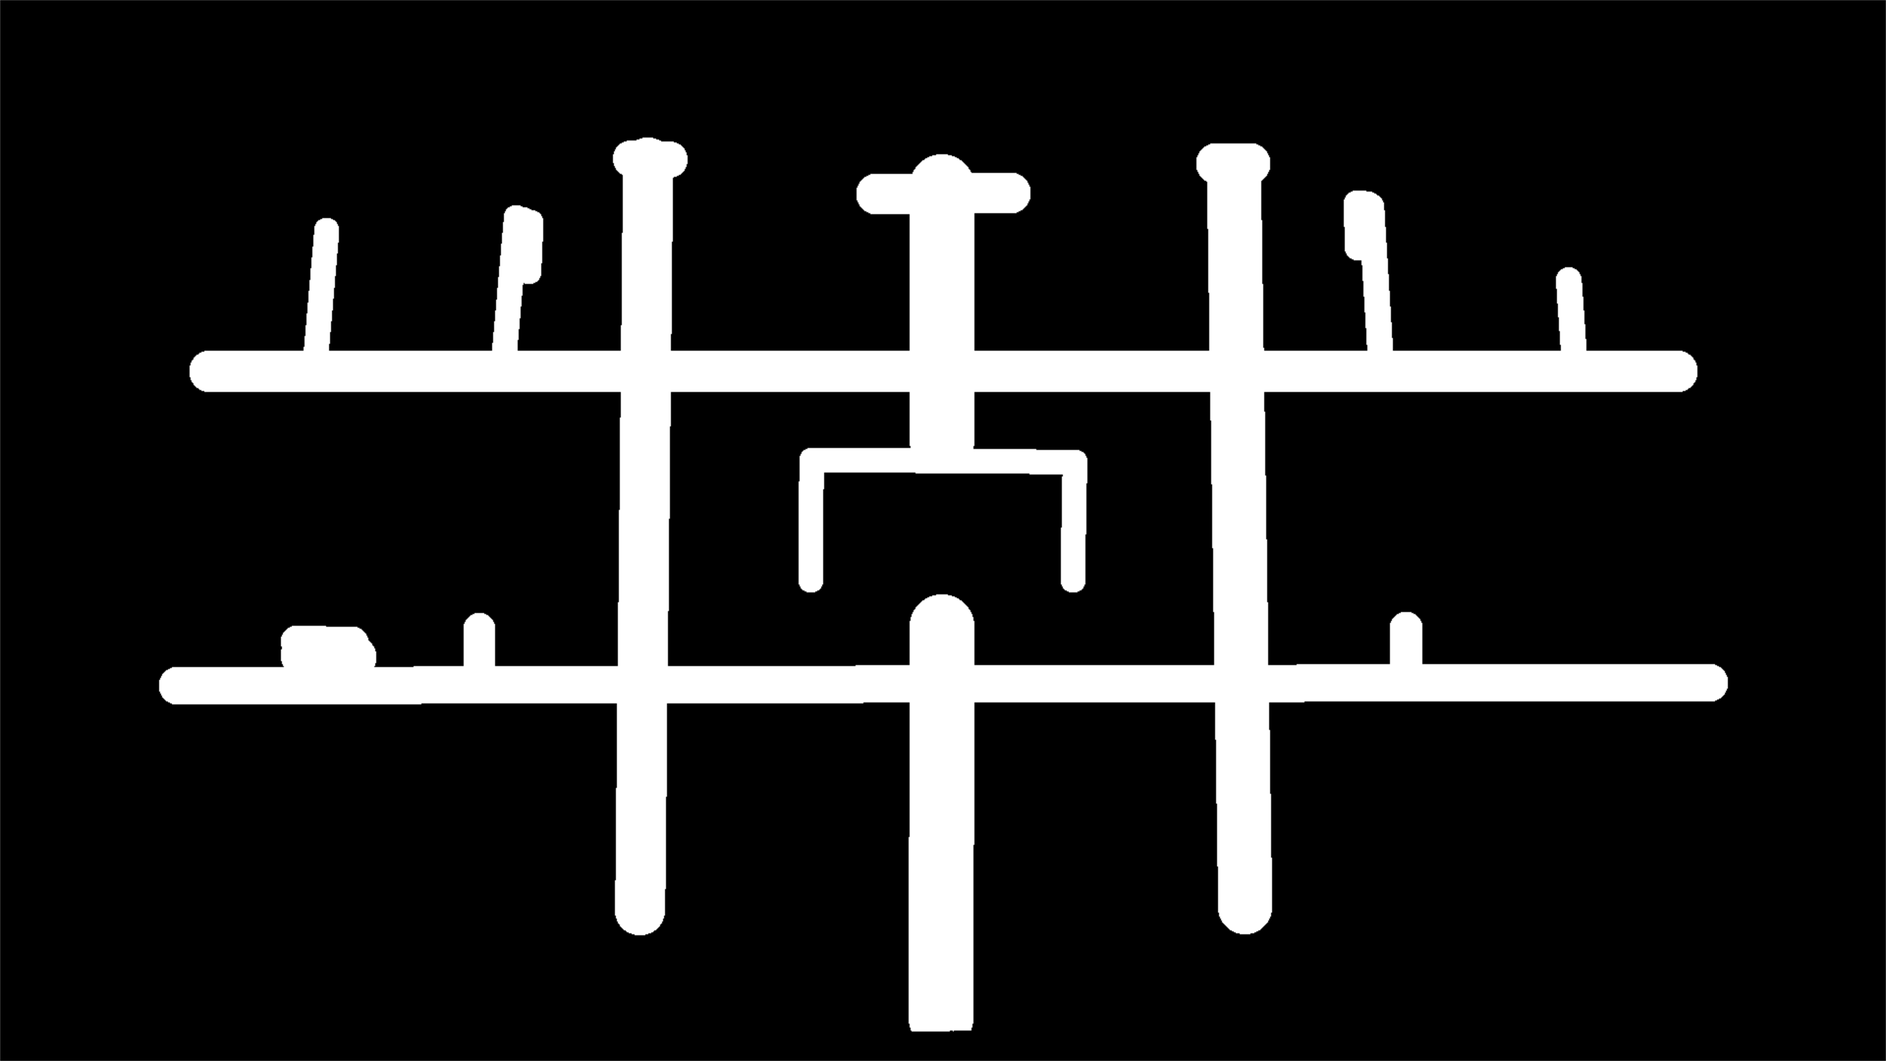
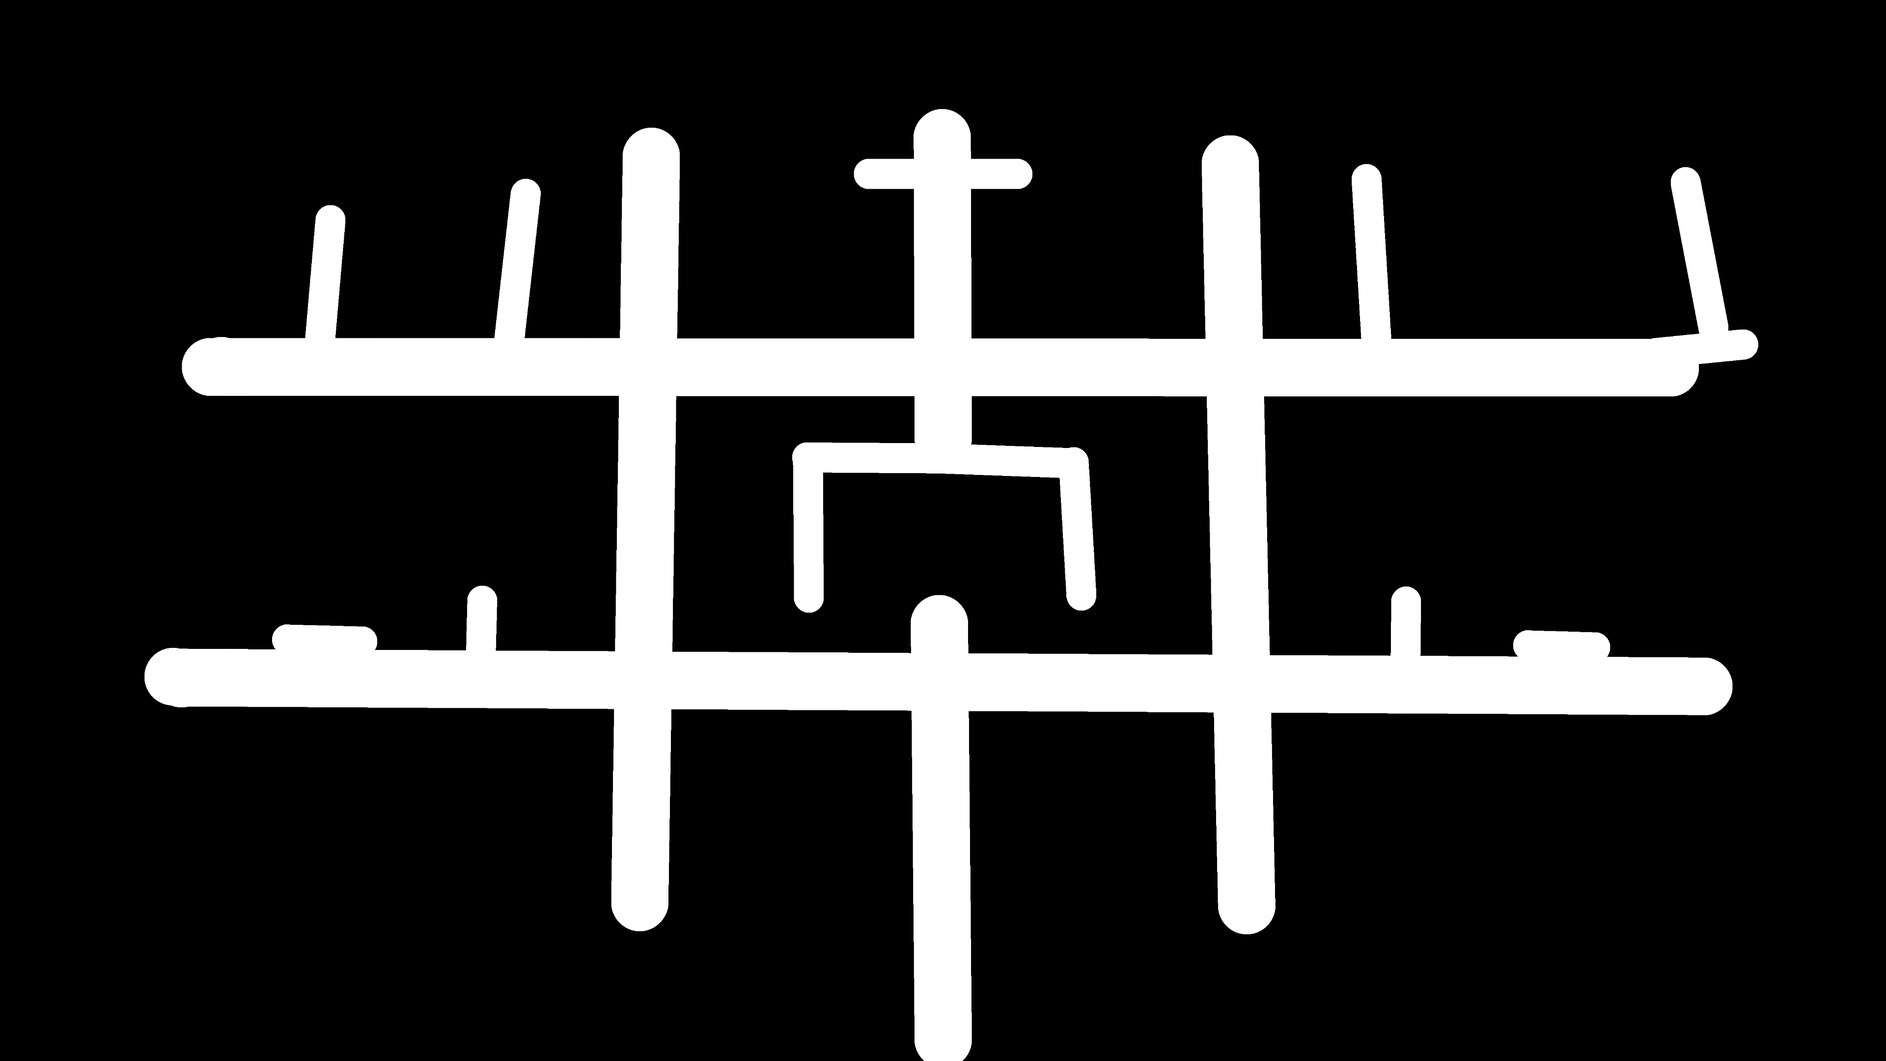
Replace MP01 and MP02 map assets and update inventory

diff --git a/asset/map/README.md b/asset/map/README.md
@@ -1,62 +1,61 @@
-# 맵 에셋
+# 이동 맵 에셋
 
-이 폴더의 이미지 22개를 아래에 모두 표시합니다. 미리보기와 파일 링크는 같은 폴더의 실제 파일을 가리킵니다. 크기는 이미지 자체의 픽셀 기준입니다. `MP01`은 온실, `MP02`는 대서고, `MP03`은 별빛 천문대의 **이동용 전체맵·가림 전경·충돌 마스크**입니다. 스토리 대화의 화면 배경은 [background/README.md](../background/README.md)에서 찾습니다. 맵 파일 보유와 엔진 연결 완료는 구분합니다. MP02·MP03의 새 마스터 PNG는 이전보다 파일 용량이 크고 구도도 달라졌지만, 현재 엔진이 읽는 월드·썸네일 WebP는 기존 파일을 유지합니다.
+이 폴더는 모험 화면에서 SD 캐릭터가 이동하는 **전체맵·가림 전경·충돌 마스크**를 보관합니다. 대화 장면 배경은 [background/README.md](../background/README.md)를 보세요. 현재 브랜치의 추적 이미지 16개는 MP01 4개, MP02 4개, MP03 7개, 참고 맵 1개입니다. 아래 링크는 `asset/map/`의 실제 파일을 가리킵니다.
+
+**런타임 주의:** MP01·MP02는 기존 WebP와 1920×1080 마스크를 제거하고 새 PNG 세트로 교체했습니다. 그러나 [엔진의 모험 맵 경로](../../engine/src/core/adventure-mission.mjs)는 아직 삭제된 파일명을 읽습니다. 따라서 **이 브랜치의 MP01·MP02 모험 화면은 엔진 경로를 바꾸기 전까지 정상 로드되지 않습니다.** 새 이미지가 파일로 등록된 것과 게임 화면에 연결된 것은 별개입니다. `asset/`만 `main`에 옮겨도 이 문제가 해결되지 않습니다.
 
 ## 빠른 탐색
 
-| 사용처·장면 | 파일명 기준 | 현재 상태 | 파일 목록·미리보기 |
-|---|---|---|---|
-| 이동·충돌용 맵; 장소별 이동 지형; BACKGROUND와 구분 | `MP* 및 기존 참고 맵` | 이 폴더 이미지 22장. 개별 파일의 채택·후보·검수 상태는 아래 설명을 따름 | 아래 파일 표와 미리보기, [에셋 전체 장면표](../README.md) 참조 |
+| 장소 | 새 전체맵(게임 좌표 기준) | 새 가림 전경 | 새 충돌 마스크 | 고해상도 원본 | 실행 상태 |
+|---|---|---|---|---|---|
+| MP01 유리 온실·약초원 | [3840×2160 맵](./MP01_greenhouse_master_3840x2160.png) | [`-1` 전경](./MP01_greenhouse_foreground_3840x2160-1.png) | [3840×2160 마스크](./MP01_greenhouse_collision_mask_3840x2160.png) | [5504×3072 원본](./MP01_greenhouse_master_5504x3072.png) | 파일 등록, 엔진 경로 미변경 |
+| MP02 대서고 | [3840×2160 맵](./MP02_grand_library_3840x2160.png) | [3840×2160 전경](./MP02_grand_library_foreground_3840x2160.png) | [3840×2160 마스크](./MP02_grand_library_collision_mask_3840x2160.png) | [5504×3072 원본](./MP02_grand_library_5504x3072.png) | 파일 등록, 엔진 경로 미변경 |
+| MP03 별빛 천문대 | [3840×2160 실행용 WebP](./MP03_starlight_observatory_world_3840x2160.webp) | [3840×2160 실행용 WebP](./MP03_starlight_observatory_foreground_3840x2160.webp) | [1920×1080 실행용 마스크](./MP03_starlight_observatory_collision_mask_1920x1080.png) | [3840×2162 검토용 마스터](./MP03_starlight_observatory_master_3840x2162.png) | 기존 실행 경로 유지 |
 
-보충 문서 [ADDITIONS_2026-10-16.md](./ADDITIONS_2026-10-16.md)는 MP02·MP03 원본 추가 당시의 크기와 연결 전 상태를 기록합니다. 현재 자원 목록은 이 README, 실제 엔진 연결 상태는 [엔진 안내](../../engine/README.md)를 따릅니다.
+전경은 전체 오브젝트를 따로 그린 그림이 아니라 **캐릭터보다 앞에 표시할 가림 영역만 있는 투명 레이어**입니다. 충돌 마스크는 완전 불투명한 순백색(`#FFFFFF`)만 이동 가능하며 나머지는 이동 불가입니다. 전체맵·전경·마스크는 같은 맵의 동일한 좌표계로 함께 사용하세요. 5504×3072 원본과 3840×2160 게임 맵은 구도·픽셀이 완전히 같다고 가정하지 말고, 3840×2160 전경·마스크는 표에 적힌 3840×2160 맵과 대조하세요.
 
-## MP01 · 온실
+## MP01 · 유리 온실·약초원 (4개)
 
-| 파일 | 용도 | 크기 | 미리보기 |
+| 파일 | 역할 | 실제 크기 | 상태 |
 |---|---|---:|---|
-| [MP01_greenhouse_master_3840x2160.png](./MP01_greenhouse_master_3840x2160.png) | 전체맵 원본 | 3840×2160 | <img src="./MP01_greenhouse_master_3840x2160.png" width="260" alt="온실 전체맵 원본"> |
-| [MP01_greenhouse_world_3840x2160.webp](./MP01_greenhouse_world_3840x2160.webp) | 전체맵 WebP | 3840×2160 | <img src="./MP01_greenhouse_world_3840x2160.webp" width="260" alt="온실 전체맵 WebP"> |
-| [MP01_greenhouse_world_1920x1080.webp](./MP01_greenhouse_world_1920x1080.webp) | 축소 전체맵 WebP | 1920×1080 | <img src="./MP01_greenhouse_world_1920x1080.webp" width="260" alt="온실 축소 전체맵"> |
-| [MP01_greenhouse_foreground_3840x2160.png](./MP01_greenhouse_foreground_3840x2160.png) | 투명 전경 PNG | 3840×2160 | <img src="./MP01_greenhouse_foreground_3840x2160.png" width="260" alt="온실 전경 PNG"> |
-| [MP01_greenhouse_foreground_3840x2160.webp](./MP01_greenhouse_foreground_3840x2160.webp) | 투명 전경 WebP | 3840×2160 | <img src="./MP01_greenhouse_foreground_3840x2160.webp" width="260" alt="온실 전경 WebP"> |
-| [MP01_greenhouse_collision_mask_3840x2160.png](./MP01_greenhouse_collision_mask_3840x2160.png) | 충돌 마스크 원본 | 3840×2160 | <img src="./MP01_greenhouse_collision_mask_3840x2160.png" width="260" alt="온실 충돌 마스크 원본"> |
-| [MP01_greenhouse_collision_mask_1920x1080.png](./MP01_greenhouse_collision_mask_1920x1080.png) | 축소 충돌 마스크 | 1920×1080 | <img src="./MP01_greenhouse_collision_mask_1920x1080.png" width="260" alt="온실 축소 충돌 마스크"> |
+| [MP01_greenhouse_master_3840x2160.png](./MP01_greenhouse_master_3840x2160.png) | SD 이동 화면의 새 전체맵 | 3840×2160 | 새 제작본, 엔진 미연결 |
+| [MP01_greenhouse_foreground_3840x2160-1.png](./MP01_greenhouse_foreground_3840x2160-1.png) | 새 전체맵 위에 겹칠 투명 가림 전경. `-1`은 사용자가 지정한 버전명 | 3840×2160 | 새 제작본, 엔진 미연결 |
+| [MP01_greenhouse_collision_mask_3840x2160.png](./MP01_greenhouse_collision_mask_3840x2160.png) | 새 전체맵의 흰색 이동 가능/검정 충돌 마스크 | 3840×2160 | 새 제작본, 엔진 미연결 |
+| [MP01_greenhouse_master_5504x3072.png](./MP01_greenhouse_master_5504x3072.png) | 고해상도 편집·보존 원본 | 5504×3072 | 게임의 3840 좌표 파일과 구분 |
 
-## MP02 · 대서고
+<img src="./MP01_greenhouse_master_3840x2160.png" width="360" alt="새 온실 이동 맵 미리보기">
 
-| 파일 | 용도 | 크기 | 미리보기 |
+## MP02 · 대서고 (4개)
+
+| 파일 | 역할 | 실제 크기 | 상태 |
 |---|---|---:|---|
-| [MP02_grand_library_master_3840x2161.png](./MP02_grand_library_master_3840x2161.png) | 갱신된 대서고 마스터 원본 · 런타임 미반영 | 3840×2161 | <img src="./MP02_grand_library_master_3840x2161.png" width="260" alt="대서고 전체맵"> |
-| [MP02_grand_library_foreground_3840x2161.png](./MP02_grand_library_foreground_3840x2161.png) | 투명 전경 | 3840×2161 | <img src="./MP02_grand_library_foreground_3840x2161.png" width="260" alt="대서고 전경"> |
-| [MP02_grand_library_collision_mask_1920x1081.png](./MP02_grand_library_collision_mask_1920x1081.png) | 충돌 마스크 | 1920×1081 | <img src="./MP02_grand_library_collision_mask_1920x1081.png" width="260" alt="대서고 충돌 마스크"> |
-| [MP02_grand_library_world_3840x2160.webp](./MP02_grand_library_world_3840x2160.webp) | 게임용 전체맵 WebP | 3840×2160 | <img src="./MP02_grand_library_world_3840x2160.webp" width="260" alt="게임용 전체맵 WebP"> |
-| [MP02_grand_library_world_1920x1080.webp](./MP02_grand_library_world_1920x1080.webp) | 축소 전체맵 WebP | 1920×1080 | <img src="./MP02_grand_library_world_1920x1080.webp" width="260" alt="축소 전체맵 WebP"> |
-| [MP02_grand_library_foreground_3840x2160.webp](./MP02_grand_library_foreground_3840x2160.webp) | 게임용 투명 전경 | 3840×2160 | <img src="./MP02_grand_library_foreground_3840x2160.webp" width="260" alt="게임용 투명 전경"> |
-| [MP02_grand_library_collision_mask_1920x1080.png](./MP02_grand_library_collision_mask_1920x1080.png) | 게임용 충돌 마스크 | 1920×1080 | <img src="./MP02_grand_library_collision_mask_1920x1080.png" width="260" alt="게임용 충돌 마스크"> |
+| [MP02_grand_library_3840x2160.png](./MP02_grand_library_3840x2160.png) | SD 이동 화면의 새 전체맵 | 3840×2160 | 새 제작본, 엔진 미연결 |
+| [MP02_grand_library_foreground_3840x2160.png](./MP02_grand_library_foreground_3840x2160.png) | 새 전체맵 위에 겹칠 투명 가림 전경 | 3840×2160 | 새 제작본, 엔진 미연결 |
+| [MP02_grand_library_collision_mask_3840x2160.png](./MP02_grand_library_collision_mask_3840x2160.png) | 새 전체맵의 흰색 이동 가능/검정 충돌 마스크 | 3840×2160 | 새 제작본, 엔진 미연결 |
+| [MP02_grand_library_5504x3072.png](./MP02_grand_library_5504x3072.png) | 고해상도 편집·보존 원본 | 5504×3072 | 게임의 3840 좌표 파일과 구분 |
 
-## MP03 · 별빛 천문대
+<img src="./MP02_grand_library_3840x2160.png" width="360" alt="새 대서고 이동 맵 미리보기">
 
-| 파일 | 용도 | 크기 | 미리보기 |
-|---|---|---:|---|
-| [MP03_starlight_observatory_master_3840x2162.png](./MP03_starlight_observatory_master_3840x2162.png) | 갱신된 별빛 천문대 마스터 원본 · 런타임 미반영 | 3840×2162 | <img src="./MP03_starlight_observatory_master_3840x2162.png" width="260" alt="갱신된 별빛 천문대 전체맵"> |
-| [MP03_starlight_observatory_foreground_3840x2161.png](./MP03_starlight_observatory_foreground_3840x2161.png) | 투명 전경 | 3840×2161 | <img src="./MP03_starlight_observatory_foreground_3840x2161.png" width="260" alt="별빛 천문대 전경"> |
-| [MP03_starlight_observatory_collision_mask_1920x1081.png](./MP03_starlight_observatory_collision_mask_1920x1081.png) | 충돌 마스크 | 1920×1081 | <img src="./MP03_starlight_observatory_collision_mask_1920x1081.png" width="260" alt="별빛 천문대 충돌 마스크"> |
-| [MP03_starlight_observatory_world_3840x2160.webp](./MP03_starlight_observatory_world_3840x2160.webp) | 게임용 전체맵 WebP | 3840×2160 | <img src="./MP03_starlight_observatory_world_3840x2160.webp" width="260" alt="게임용 전체맵 WebP"> |
-| [MP03_starlight_observatory_world_1920x1080.webp](./MP03_starlight_observatory_world_1920x1080.webp) | 축소 전체맵 WebP | 1920×1080 | <img src="./MP03_starlight_observatory_world_1920x1080.webp" width="260" alt="축소 전체맵 WebP"> |
-| [MP03_starlight_observatory_foreground_3840x2160.webp](./MP03_starlight_observatory_foreground_3840x2160.webp) | 게임용 투명 전경 | 3840×2160 | <img src="./MP03_starlight_observatory_foreground_3840x2160.webp" width="260" alt="게임용 투명 전경"> |
-| [MP03_starlight_observatory_collision_mask_1920x1080.png](./MP03_starlight_observatory_collision_mask_1920x1080.png) | 게임용 충돌 마스크 | 1920×1080 | <img src="./MP03_starlight_observatory_collision_mask_1920x1080.png" width="260" alt="게임용 충돌 마스크"> |
+## MP03 · 별빛 천문대 (7개, 이번 교체 대상 아님)
 
-## 참고 맵
+| 파일 | 역할 | 실제 크기 |
+|---|---|---:|
+| [MP03_starlight_observatory_world_3840x2160.webp](./MP03_starlight_observatory_world_3840x2160.webp) | 현재 게임용 전체맵 | 3840×2160 |
+| [MP03_starlight_observatory_world_1920x1080.webp](./MP03_starlight_observatory_world_1920x1080.webp) | 현재 게임용 축소 미리보기 | 1920×1080 |
+| [MP03_starlight_observatory_foreground_3840x2160.webp](./MP03_starlight_observatory_foreground_3840x2160.webp) | 현재 게임용 투명 전경 | 3840×2160 |
+| [MP03_starlight_observatory_collision_mask_1920x1080.png](./MP03_starlight_observatory_collision_mask_1920x1080.png) | 현재 게임용 충돌 마스크 | 1920×1080 |
+| [MP03_starlight_observatory_master_3840x2162.png](./MP03_starlight_observatory_master_3840x2162.png) | 다른 구도의 검토용 마스터, 런타임 미반영 | 3840×2162 |
+| [MP03_starlight_observatory_foreground_3840x2161.png](./MP03_starlight_observatory_foreground_3840x2161.png) | 검토용 마스터와 함께 보관한 전경 | 3840×2161 |
+| [MP03_starlight_observatory_collision_mask_1920x1081.png](./MP03_starlight_observatory_collision_mask_1920x1081.png) | 검토용 마스터와 함께 보관한 마스크 | 1920×1081 |
 
-| 파일 | 용도 | 크기 | 미리보기 |
-|---|---|---:|---|
-| [map1_straight.png](./map1_straight.png) | 직선형 전체맵 시안 | 1920×1080 | <img src="./map1_straight.png" width="260" alt="직선형 전체맵 시안"> |
+## 참고 파일 (1개)
 
-## MP02·MP03 마스터 갱신 기록
+| 파일 | 역할 | 크기 |
+|---|---|---:|
+| [map1_straight.png](./map1_straight.png) | 직선형 전체맵 시안, MP01~MP03 런타임 경로와 무관 | 1920×1080 |
 
-| 장소 | 이전 마스터(브랜치 이력) | 현재 마스터 | 적용 상태 |
-|---|---:|---:|---|
-| MP02 대서고 | 3840×2161 · 13,369,241바이트 | 3840×2161 · 14,149,644바이트 | 같은 픽셀 크기의 새 구도. 게임용 WebP는 기존판 유지 |
-| MP03 별빛 천문대 | 3840×2161 · 13,932,037바이트 | 3840×2162 · 14,020,750바이트 | 세로 1px 증가한 새 구도. 게임용 WebP는 기존판 유지 |
+## 엔진 경로를 갱신할 때
 
-새 마스터는 파일 용량이 커졌지만 픽셀 해상도는 MP02가 동일하고 MP03은 세로로 1px만 늘었습니다. 전경·충돌 마스크와 새 구도의 위치 정합을 확인하기 전에는 마스터를 기존 게임용 WebP 경로에 덮어쓰지 않습니다. 현재 엔진은 기존 3840×2160 월드 WebP·1920×1080 썸네일 WebP·전경·충돌 마스크를 사용합니다. 원본 PNG는 `MP번호_장소_역할_실제해상도` 규칙으로 표시합니다. 이 README의 파일 보유는 새 마스터의 엔진 적용 완료를 뜻하지 않습니다.
+`engine/src/core/adventure-mission.mjs`의 MP01·MP02 `world`, `thumbnail`, `mask`, `foreground` 경로를 함께 바꾸고, `engine`의 `design-assets/map/` 복사·번들 규칙을 확인하세요. 삭제된 1920×1080 썸네일 대신 3840×2160 PNG를 재사용할지 별도 썸네일을 만들지도 결정해야 합니다. 캐릭터 시작점·목표 배치·충돌·가림을 실제 화면에서 확인하기 전에는 런타임 연결 완료로 표시하지 않습니다.
+
+[ADDITIONS_2026-10-16.md](./ADDITIONS_2026-10-16.md)는 과거 MP02·MP03 추가 당시의 기록입니다. 그 문서에 나온 MP02 3840×2161 파일은 이번 교체로 제거됐으며, **현재 파일 목록은 이 README가 우선**입니다.

diff --git a/asset/README.md b/asset/README.md
@@ -12,7 +12,7 @@
 | [character/](character/README.md)                                    | 학생 전신 32장·상반신 표정 144장·교수 원본 시안 2장·대화 상반신 3장·`요정의 거래` 요정 1장 · Git 추적 이미지 182장 | `이름0_fullbody.png` / `이름1_base.png`~`이름5_relieved.png` / `CH_DRM_fairy_trade_upperbody_01.png` / `CH_<대사 ID>_valentinus_*_upperbody_01.png` | 교수 대사별 화자 이미지와 기숙사 `DRM` 특수 활동 전용 요정을 구분                                                                                                                                                                                                                                                                                                                    |
 | [item/](item/README.md) · [모험 목표 15종](item/adventure/README.md) | 스토리 FOCUS·소품·가구·모험 목표 · 이미지 60장                                                                     | `IT_*` / `ADV_GH/LIB/OBS_*`                                                                                                                         | `ART-*` FOCUS와 `ADV_*` 모험 목표를 용도별로 검색; 후보는 자동 배치 금지                                                                                                                                                                                                                                                                                                             |
 | [ui/](ui/README.md)                                                  | 버튼·프레임·로고·환경 UI · 이미지 62장                                                                             | `BT / UI / LG 및 실행 호환 이름`                                                                                                                    | 마이룸 프로필·날짜 프레임 `UI21`·`UI22`(공통 가로 2058px), 일지 화살표·닫기, 대화·선택지 버튼                                                                                                                                                                                                                                                                                        |
-| [map/](map/README.md)                                                | 이동·충돌용 맵 · 이미지 22장                                                                                       | `MP* 및 기존 참고 맵`                                                                                                                               | MP02·MP03 갱신 마스터와 기존 게임용 WebP를 구분. [대서고 원본](map/MP02_grand_library_master_3840x2161.png) <img src="map/MP02_grand_library_master_3840x2161.png" width="72" alt="갱신된 대서고 마스터"> · [천문대 원본](map/MP03_starlight_observatory_master_3840x2162.png) <img src="map/MP03_starlight_observatory_master_3840x2162.png" width="72" alt="갱신된 천문대 마스터"> |
+| [map/](map/README.md) | SD 이동용 전체맵·가림 전경·충돌 마스크 · 추적 이미지 16장 | MP01 새 온실 세트 `MP01_greenhouse_master_3840x2160.png` / `MP01_greenhouse_foreground_3840x2160-1.png` / `MP01_greenhouse_collision_mask_3840x2160.png`; MP02 새 대서고 세트 `MP02_grand_library_3840x2160.png` / `MP02_grand_library_foreground_3840x2160.png` / `MP02_grand_library_collision_mask_3840x2160.png` | [MP01 새 맵](map/MP01_greenhouse_master_3840x2160.png) · [MP02 새 맵](map/MP02_grand_library_3840x2160.png) · [전체 파일·5504px 원본·런타임 미연결 상태](map/README.md). 기존 MP01·MP02 WebP/1920px 실행 파일은 제거됐고 엔진 경로 갱신 전까지 두 모험 맵은 로드되지 않음. MP03은 이번 교체 대상 아님 |
 | [pet/](pet/README.md)                                                | 펫·루루 의상/표정 · 이미지 28장                                                                                    | `PT / NPC_LULU`                                                                                                                                     | 루루 회차와 의상 번호를 구별해 검색                                                                                                                                                                                                                                                                                                                                                  |
 | [sd_character/](sd_character/README.md)                              | SD 캐릭터 · 이미지 48장                                                                                            | `기존 캐릭터별 SD 계열`                                                                                                                             | Adventure용 작은 캐릭터; 전신 대화 화자와 구분                                                                                                                                                                                                                                                                                                                                       |
 | [puzzle/](puzzle/README.md)                                          | 방 배경 12조각 퍼즐 · 이미지 48장                                                                                  | `PZ + 방·조각 번호`                                                                                                                                 | 우주방·공주방·식물방 완성본과 개별 조각                                                                                                                                                                                                                                                                                                                                              |
